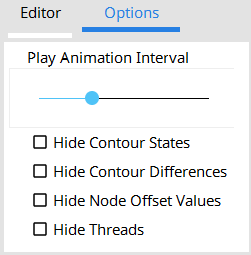
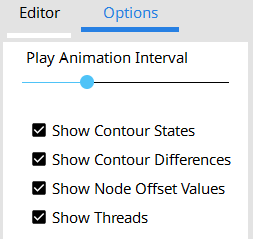
Show stuff in Options menu

diff --git a/RTProject/src/main/java/graph/drawing/RTProject/MainFrame.java b/RTProject/src/main/java/graph/drawing/RTProject/MainFrame.java
@@ -386,6 +386,7 @@ public class MainFrame extends JFrame {
 		optionsPanel.add(lblPlayAnimationFrame);
 
 		JSlider animationIntervalSlider = new JSlider();
+		animationIntervalSlider.setBorder(null);
 		optionsPanel.add(animationIntervalSlider);
 		animationIntervalSlider.setPreferredSize(new Dimension(50, 50));
 		animationIntervalSlider.setMaximum(180);
@@ -402,18 +403,30 @@ public class MainFrame extends JFrame {
 		});
 		animationIntervalSlider.setValue(60);
 		animationIntervalSlider.setMinimum(5);
+		
+		Component verticalStrut = Box.createVerticalStrut(20);
+		optionsPanel.add(verticalStrut);
 
-		JCheckBox chckbxHideContourStates = new JCheckBox("Hide Contour States");
+		JCheckBox chckbxHideContourStates = new JCheckBox("Show Contour States");
+		chckbxHideContourStates.setSelected(true);
 		chckbxHideContourStates.setHorizontalAlignment(SwingConstants.LEFT);
 		optionsPanel.add(chckbxHideContourStates);
 
-		JCheckBox chckbxHideContourDifferenceStates = new JCheckBox("Hide Contour Differences");
+		JCheckBox chckbxHideContourDifferenceStates = new JCheckBox("Show Contour Differences");
+		chckbxHideContourDifferenceStates.setSelected(true);
 		chckbxHideContourStates.addMouseListener(new MouseAdapter() {
 			@Override
 			public void mouseClicked(MouseEvent e) {
-				Options.hideContourStates = chckbxHideContourStates.isSelected();
-				if (Options.hideContourStates && !chckbxHideContourDifferenceStates.isSelected())
+				Options.hideContourStates = !chckbxHideContourStates.isSelected();
+				
+				if (!chckbxHideContourStates.isSelected() && chckbxHideContourDifferenceStates.isSelected()) {
 					chckbxHideContourDifferenceStates.doClick();
+					chckbxHideContourDifferenceStates.setEnabled(false);
+				}
+				if (chckbxHideContourStates.isSelected()) {
+					chckbxHideContourDifferenceStates.setEnabled(true);
+				}
+				
 				GraphLoader.load(editorPane.getText(), states);
 				refresh();
 			}
@@ -421,7 +434,7 @@ public class MainFrame extends JFrame {
 		chckbxHideContourDifferenceStates.addMouseListener(new MouseAdapter() {
 			@Override
 			public void mouseClicked(MouseEvent e) {
-				Options.hideContourDifferenceStates = chckbxHideContourDifferenceStates.isSelected();
+				Options.hideContourDifferenceStates = !chckbxHideContourDifferenceStates.isSelected();
 				GraphLoader.load(editorPane.getText(), states);
 				refresh();
 			}
@@ -429,21 +442,23 @@ public class MainFrame extends JFrame {
 		chckbxHideContourDifferenceStates.setHorizontalAlignment(SwingConstants.LEFT);
 		optionsPanel.add(chckbxHideContourDifferenceStates);
 
-		JCheckBox chckbxHideNodeOffsetValues = new JCheckBox("Hide Node Offset Values");
+		JCheckBox chckbxHideNodeOffsetValues = new JCheckBox("Show Node Offset Values");
+		chckbxHideNodeOffsetValues.setSelected(true);
 		chckbxHideNodeOffsetValues.addMouseListener(new MouseAdapter() {
 			@Override
 			public void mouseClicked(MouseEvent e) {
-				Options.hideNodeOffsetValues = chckbxHideNodeOffsetValues.isSelected();
+				Options.hideNodeOffsetValues = !chckbxHideNodeOffsetValues.isSelected();
 				refresh();
 			}
 		});
 		optionsPanel.add(chckbxHideNodeOffsetValues);
 
-		JCheckBox chckbxHideThreads = new JCheckBox("Hide Threads");
+		JCheckBox chckbxHideThreads = new JCheckBox("Show Threads");
+		chckbxHideThreads.setSelected(true);
 		chckbxHideThreads.addMouseListener(new MouseAdapter() {
 			@Override
 			public void mouseClicked(MouseEvent e) {
-				Options.hideThreads = chckbxHideThreads.isSelected();
+				Options.hideThreads = !chckbxHideThreads.isSelected();
 				refresh();
 			}
 		});

diff --git a/RTProject/src/main/java/graph/drawing/RTProject/GraphState.java b/RTProject/src/main/java/graph/drawing/RTProject/GraphState.java
@@ -100,7 +100,7 @@ public class GraphState {
 		// Set the gridSize so that the entire tree + padding fits on the screen
 		int gridSize = (int) Math.min(
 				(target.getWidth() - pad.getHorizontal()) * 0.9
-						/ (graph.nodes.stream().map(x -> x.x).max(Double::compare).get() + 1),
+						/ (graph.nodes.stream().map(x -> x.x).max(Double::compare).get()),
 				(target.getHeight() - pad.getVertical()) * 0.9
 						/ (graph.nodes.stream().map(x -> x.y).max(Double::compare).get() + 1));
 
@@ -212,7 +212,7 @@ public class GraphState {
 
 			String name = new String(n.name);
 			String note = new String(n.note);
-			while (g.getFontMetrics().stringWidth(name) > n.w)
+			while (g.getFontMetrics().stringWidth(name) > n.w && name.length() > 2)
 				name = name.substring(0, name.length() - 2);
 			while (g.getFontMetrics().stringWidth(note) > n.w)
 				note = note.substring(0, note.length() - 2);
@@ -225,7 +225,7 @@ public class GraphState {
 			g.setFont(new Font(fontName, Font.PLAIN, (int) (n.h * 0.9)));
 
 			String name = new String(n.name);
-			while (g.getFontMetrics().stringWidth(name) > n.w)
+			while (g.getFontMetrics().stringWidth(name) > n.w && name.length() > 2)
 				name = name.substring(0, name.length() - 2);
 
 			g.drawString(name, (int) (x + (n.w - g.getFontMetrics().stringWidth(name)) / 2),

diff --git a/RTProject/src/main/java/phases/RTLayoutPhase.java b/RTProject/src/main/java/phases/RTLayoutPhase.java
@@ -168,12 +168,12 @@ public class RTLayoutPhase implements Phase {
 		int re = 0;
 		while (Help.getChildren(r).size() > 0) {
 			states.addState(
-					new GraphState("Phase 2, get total X position of the root: " + re, Graph.fromElk(layoutGraph), r));
+					new GraphState("Phase 2, get total X position of the root: " + (-re + 1), Graph.fromElk(layoutGraph), r));
 
 			re += Help.getProp(r).xOffset;
 			r = Help.getChildren(r).get(0);
 		}
-		states.addState(new GraphState("Phase 2, total X position of the root: " + re, Graph.fromElk(layoutGraph), r));
+		states.addState(new GraphState("Phase 2, total X position of the root: " + (-re + 1), Graph.fromElk(layoutGraph), r));
 		return re;
 	}
 

diff --git a/RTProject/src/main/java/phases/BinaryTreeCheckPhase.java b/RTProject/src/main/java/phases/BinaryTreeCheckPhase.java
@@ -37,9 +37,9 @@ public class BinaryTreeCheckPhase implements Phase {
 		if (groots.size() > 1)
 			throw new Exception(
 					"Here it's I am gRoot and not we are gRoot! (A binary tree only has one root but this one has "
-							+ groots.stream().map(x -> x.getIdentifier()).reduce((x, y) -> x + ", " + y) + ")");
+							+ groots.stream().map(x -> x.getIdentifier()).reduce((x, y) -> x + ", " + y).get() + ")");
 		else if (groots.size() == 0)
-			throw new Exception("I can't layout a graph without Nodes!");
+			throw new Exception();
 	}
 
 	boolean hasCycle(ElkNode layoutGraph) {

diff --git a/RTProject/src/main/java/graph/drawing/RTProject/GraphLoader.java b/RTProject/src/main/java/graph/drawing/RTProject/GraphLoader.java
@@ -64,7 +64,8 @@ public class GraphLoader {
 		try {
 			new BinaryTreeCheckPhase().apply(curGraph, new BasicProgressMonitor());
 		} catch (Exception e) {
-			JOptionPane.showMessageDialog(null, e.getMessage());
+			if (e.getMessage() != null && !e.getMessage().contentEquals(""))
+				JOptionPane.showMessageDialog(null, e.getMessage());
 			return false;
 		}
 

diff --git a/README.md b/README.md
@@ -217,7 +217,7 @@ This is a layout phase that layouts the graph using a RT implementation. However
 
 ![OwO thewes missing some something D:](Documentation-Resources/gui.png "Hey, im a popup :P")
 
- The left side of the GUI is designed similarly to a generic video player with the play plause button and the progress bar showing the progress through the video. However we also need buttons to step through the animation frame by frame. Similarly to sony vegas' gui I seperate the video player controls from the frame by frame buttons.
+The left side of the GUI is designed similarly to a generic video player with the play plause button and the progress bar showing the progress through the video. However we also need buttons to step through the animation frame by frame. Similarly to sony vegas' gui I seperate the video player controls from the frame by frame buttons.
 
 The right side of the GUI contains additional information like the legend, similarly to YouTubes info panel that i enabled on certain videos. The information displayed here is always important so there is no option to hide it.
 
@@ -225,7 +225,13 @@ Within the editorTab there is some padding around the editorPane because the tex
 
 ![OwO thewes missing some something D:](Documentation-Resources/options.png "Hey, im a popup :P")
 
-The level of detail options in the options menu ask if you want to hide something instead of the other way around. This is the case because those options should normally be enabled, therefore hiding the elements is the special case.
+### Filtering
+
+![OwO thewes missing some something D:](Documentation-Resources/filtering.png "Hey, im a popup :P")
+
+### Initial Phase
+
+In the initial state the graph is layouted using the inorder algorithm because it tends to layout graphs too widely which gives us enough space to visualize the stages of the RT algorithm.
 
 ### Phase 1
 
